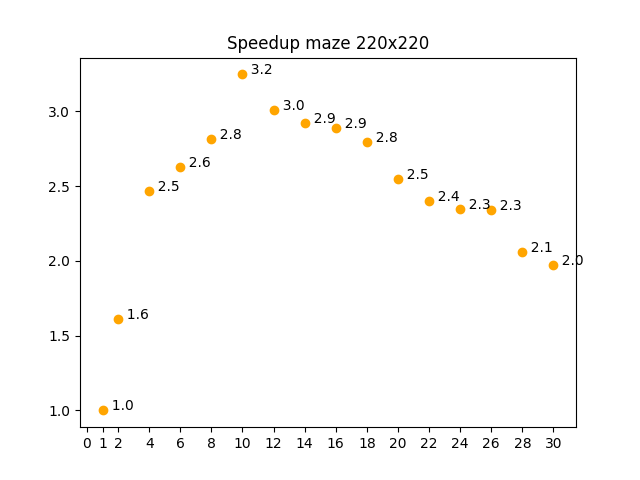
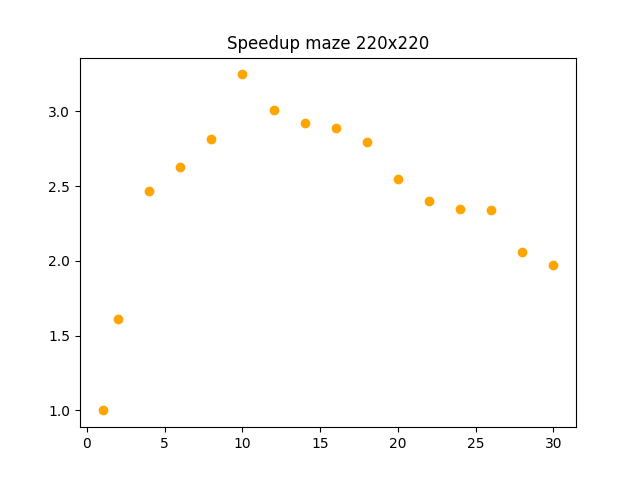
Other graphs

diff --git a/results_postproc/graphs.py b/results_postproc/graphs.py
@@ -4,27 +4,27 @@ import matplotlib.pyplot as plt
 import matplotlib as mpl
 # mpl.use("TkAgg")
 
-
-def graphs_fixed_n_particles(df, n_particles):
-    for maze_name in df["maze"].unique():
-        maze_df = (df.loc[(df["maze"] == maze_name) & ((df["n_particles"] == n_particles) | (df["n_threads"] == 1))]
-                   .sort_values("n_threads"))
-        maze_size = maze_df["maze_size"].iloc[0]
-        maze_df.plot(x="n_threads", y="execution_time", kind="scatter",
-                     title=f"Maze {maze_size}, {n_particles=}",
-                     xticks=np.concatenate((np.array([1]), np.arange(0, 32, 2))))
-        plt.savefig(f"plots/maze_{maze_size}_{n_particles=}.png")
-
-def graphs_linear_n_particles(df):
-    for maze_name in df["maze"].unique():
-        maze_df = (df.loc[(df["maze"] == maze_name) & (df["n_particles"] == df["n_threads"])]
-                   .sort_values("n_threads"))
-        maze_size = maze_df["maze_size"].iloc[0]
-        maze_df.plot(x="n_threads", y="execution_time", kind="scatter",
-                     title=f"Maze {maze_size}, n_particles=n_threads",
-                     xticks=np.concatenate((np.array([1]), np.arange(0, 32, 2))))
-        plt.savefig(f"plots/maze_{maze_size}_n_particles=n_threads.png")
-
+#
+# def graphs_fixed_n_particles(df, n_particles):
+#     for maze_name in df["maze"].unique():
+#         maze_df = (df.loc[(df["maze"] == maze_name) & ((df["n_particles"] == n_particles) | (df["n_threads"] == 1))]
+#                    .sort_values("n_threads"))
+#         maze_size = maze_df["maze_size"].iloc[0]
+#         maze_df.plot(x="n_threads", y="execution_time", kind="scatter",
+#                      title=f"Maze {maze_size}, {n_particles=}",
+#                      xticks=np.concatenate((np.array([1]), np.arange(0, 32, 2))))
+#         plt.savefig(f"plots/maze_{maze_size}_{n_particles=}.png")
+#
+# def graphs_linear_n_particles(df):
+#     for maze_name in df["maze"].unique():
+#         maze_df = (df.loc[(df["maze"] == maze_name) & (df["n_particles"] == df["n_threads"])]
+#                    .sort_values("n_threads"))
+#         maze_size = maze_df["maze_size"].iloc[0]
+#         maze_df.plot(x="n_threads", y="execution_time", kind="scatter",
+#                      title=f"Maze {maze_size}, n_particles=n_threads",
+#                      xticks=np.concatenate((np.array([1]), np.arange(0, 32, 2))))
+#         plt.savefig(f"plots/maze_{maze_size}_n_particles=n_threads.png")
+#
 
 def graphs_all_particles_and_speedup(df):
     maze_avg = df.groupby(by=["maze", "maze_size", "n_threads"])["execution_time"].sum().reset_index()
@@ -44,10 +44,13 @@ def graphs_all_particles_and_speedup(df):
         speedup = sequential_exec_time / maze_df["execution_time"]
         plt.scatter(maze_df["n_threads"], speedup, color="orange")
         plt.title(f"Speedup maze {maze_size}")
+        plt.savefig(f"plots/speedup_maze_{maze_size}.png")
         plt.xticks(np.concatenate((np.array([1]), np.arange(0, 32, 2))))
         for t, s in zip(maze_df["n_threads"], speedup):
             ax.annotate(f"  {s:.2}", xy=(t, s), xytext=(t, s), xycoords='data')
-        plt.savefig(f"plots/speedup_maze_{maze_size}.png")
+            plt.plot([t, t], [0, s], linestyle='dashed', color="orange")
+        plt.gca().set_ylim(bottom=0)
+        plt.savefig(f"plots/speedup_maze_{maze_size}_annotated.png")
         plt.close()
 
 if __name__ == "__main__":
